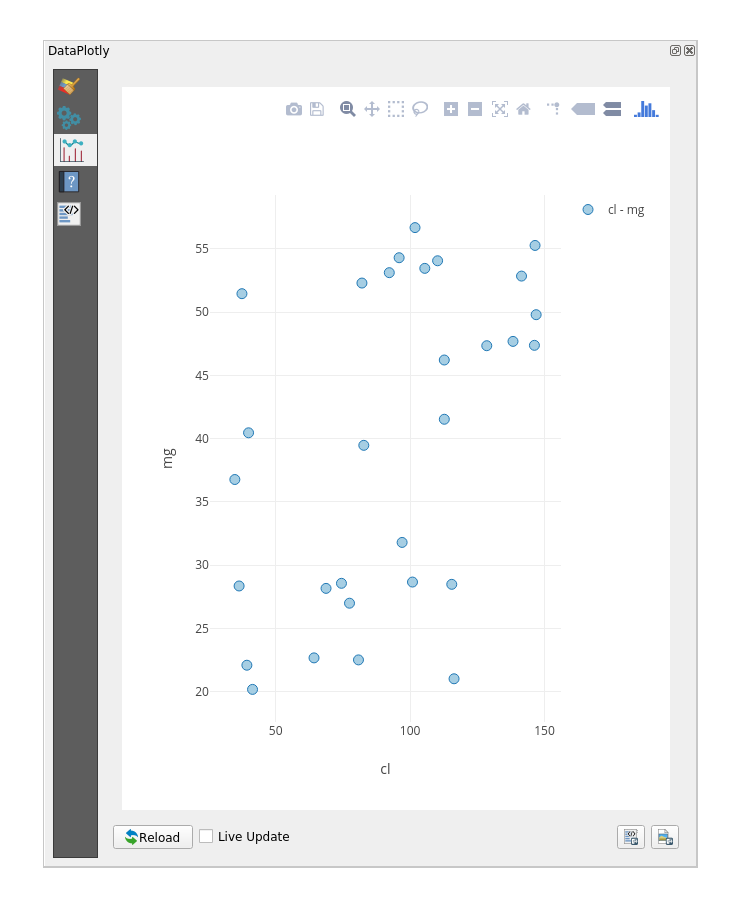
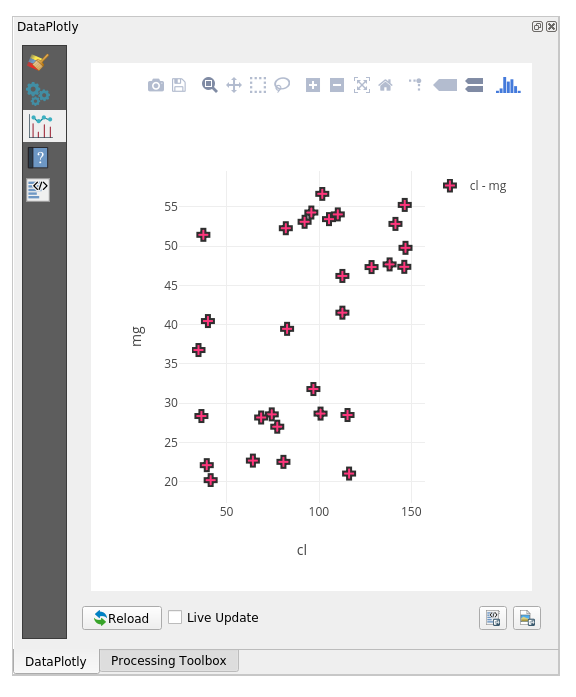
first review

diff --git a/source/docs/training_manual/qgis_plugins/plugin_examples.rst b/source/docs/training_manual/qgis_plugins/plugin_examples.rst
@@ -54,7 +54,7 @@ But there is more.
 
 If the default maps are not enough for you, you can add other map providers.
 Click on :menuselection:`Web --> QuickMapServices --> Settings` and go in the
-:menuselection:`More service` tab. Read carefully the message of this tab and then click
+:guilabel:`More services` tab. Read carefully the message of this tab and then click
 on the :kbd:`Get Contributed pack` button.
 
 If you open now the :menuselection:`Web --> QuickMapServices` menu you will see
@@ -88,7 +88,7 @@ QuickOSM plugin is available with two new buttons in the QGIS Toolbar or in the
 
 * Look for ``railway`` in the ``Key`` menu and let the ``Value`` empty: so we
   are downloading all the railway features without specifying specific values.
-* Choose the :guilabel:`Extent of a layer` by choosing :kbd:`roads`.
+* Select :guilabel:`Extent of a layer` and choose :kbd:`roads`.
 * Click on the :guilabel:`Run query` button.
 
 .. image:: img/quickosm_setup.png
@@ -127,7 +127,7 @@ mountain area known as `Dolomites <https://en.wikipedia.org/wiki/Dolomites>`_.
 You cannot achieve this task with the :guilabel:`Quick query` tab, you have to
 be more specific and write your own query. Let's try to do this.
 
-* Start an new project.
+* Start a new project.
 * Open the QuickOSM plugin and click on the :guilabel:`Query` tab.
 * Copy and paste the following code into the query canvas::
 
@@ -136,7 +136,7 @@ be more specific and write your own query. Let's try to do this.
     You may want to use the "zoom onto data" button. =>
     -->
     <osm-script output="json">
-    <!-- search the area of the Dolmites -->
+    <!-- search the area of the Dolomites -->
     <query type="area">
       <has-kv k="place" v="region"/>
       <has-kv k="region:type" v="mountain_area"/>
@@ -202,7 +202,9 @@ for the ``X Field`` and :kbd:`mg` for the ``Y Field``:
    :align: center
 
 If you want you can change the colors, the marker type, the transparency and
-many other settings. Once done click on the :guilabel:`Create Plot` button:
+many other settings: just try to change some parameters to create the plot as the
+following picture. Once you set up all the parameters click on the
+:guilabel:`Create Plot` button to create the plot:
 
 .. image:: img/dataplotly_scatterplot.png
    :align: center
